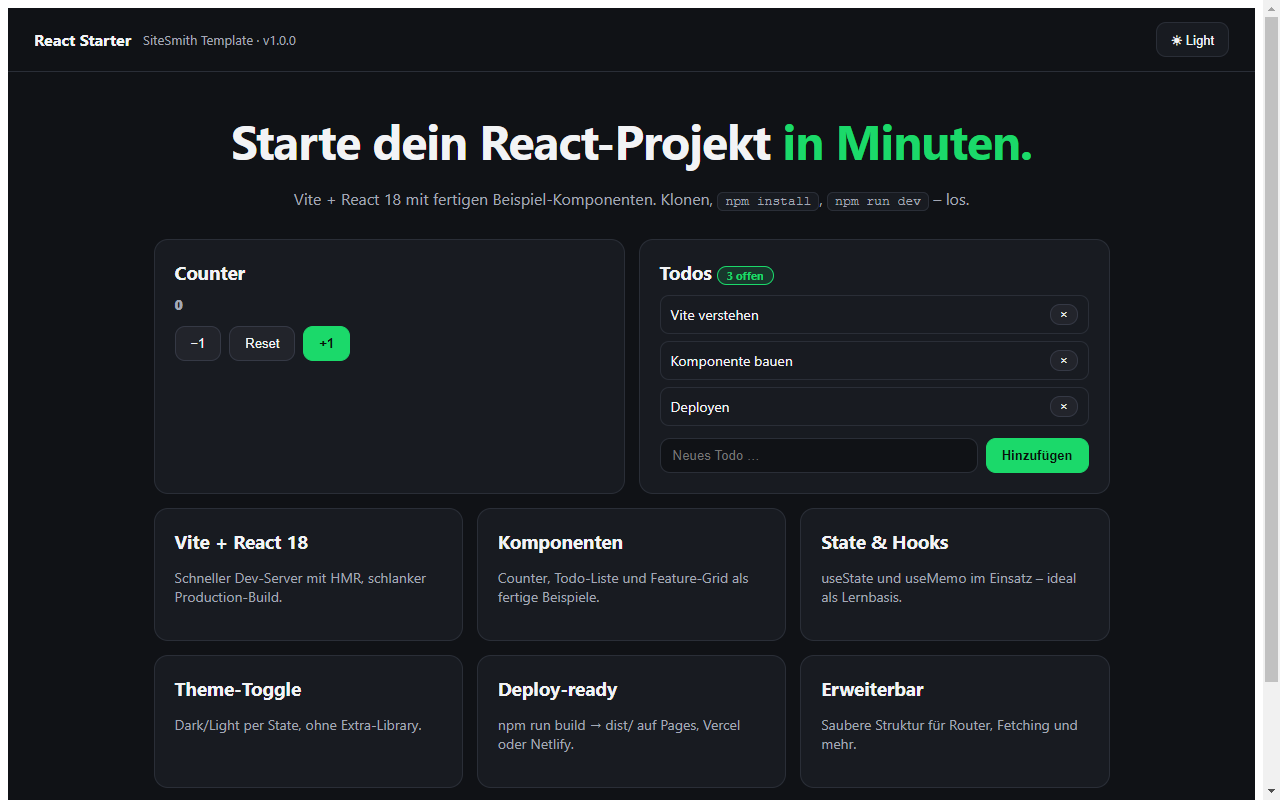
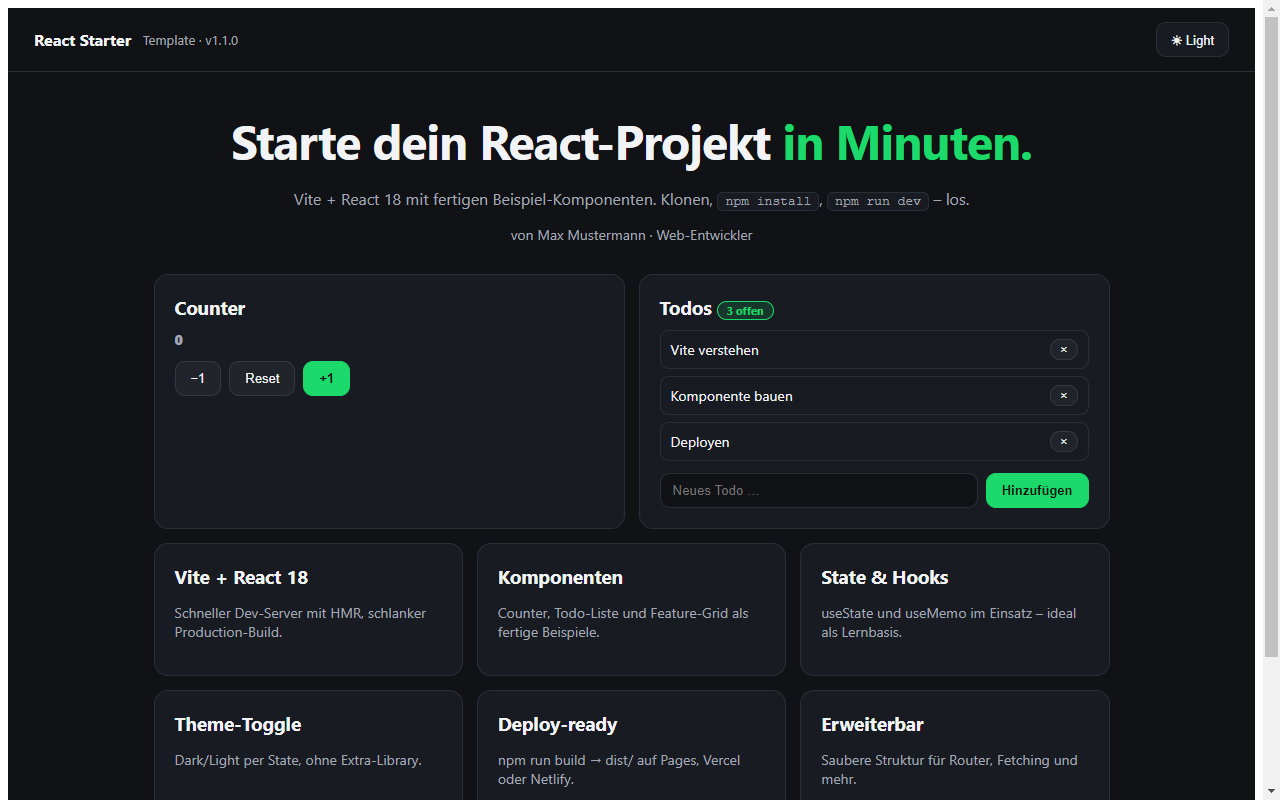
templates konfigurierbar: config-schema + platzhalter (v1.1.0), neue screenshots, spec

diff --git a/README.md b/README.md
@@ -38,6 +38,27 @@ Zentrales Template-Repo für **Web Template Studio** (Desktop-App + Website).
 - `features` (optional): Liste von Feature-Stichpunkten für die Detailseite
 - `versions` (optional): Versionshistorie für die Detailseite, z. B. `[{"version": "1.1.0", "date": "2026-10-09", "notes": "Neues Farbschema."}]`
 - `related` (geplant, siehe SiteSmith-Repo `IDEEN.md`): verwandte Templates/Versionen mit Relationstyp
+
+## Template-Konfiguration (`config` + Platzhalter)
+
+Templates können in `.temp-config` ein `config`-Array deklarieren. Beim Installieren
+zeigt SiteSmith daraus ein Formular; die Werte ersetzen **vor** der Repo-Erstellung
+alle `{id}`-Platzhalter in Textdateien (`.html`, `.css`, `.js(x)`, `.json`, `.md`, …).
+`meta/`, `.git` und `node_modules` werden nie angefasst. IDs bitte namespacen
+(z. B. `site.name`), damit sie nicht mit echtem Code (z. B. JSX `{f.title}`) kollidieren.
+
+```json
+"config": [
+  { "id": "site.name", "name": "Website-Name", "type": "text", "required": true, "default": "Pulse" },
+  { "id": "contact.email", "name": "Kontakt-E-Mail", "type": "email", "required": false, "default": "hallo@pulse.example" }
+]
+```
+
+Typen: `text`, `textarea`, `email`, `url`, `number`, `boolean`, `color`, `select`
+(bei `select` zusätzlich `"options": ["a", "b"]`). Fehlende Werte fallen auf `default`
+zurück, damit keine Platzhalter übrig bleiben. Gespeicherte Werte landen in
+`meta/meta.json` des installierten Projekts und können später in den
+Project-Settings geändert bzw. auf neue Template-Versionen migriert werden.
 - `version`, `description`, `author`, `updated` (`YYYY-MM-DD`), `type` (`html` | `node` | `static` …), `languages`, `entry` (Startdatei)
 
 ## `.temp-config` – Format (liegt IN jedem Zip im Root)
